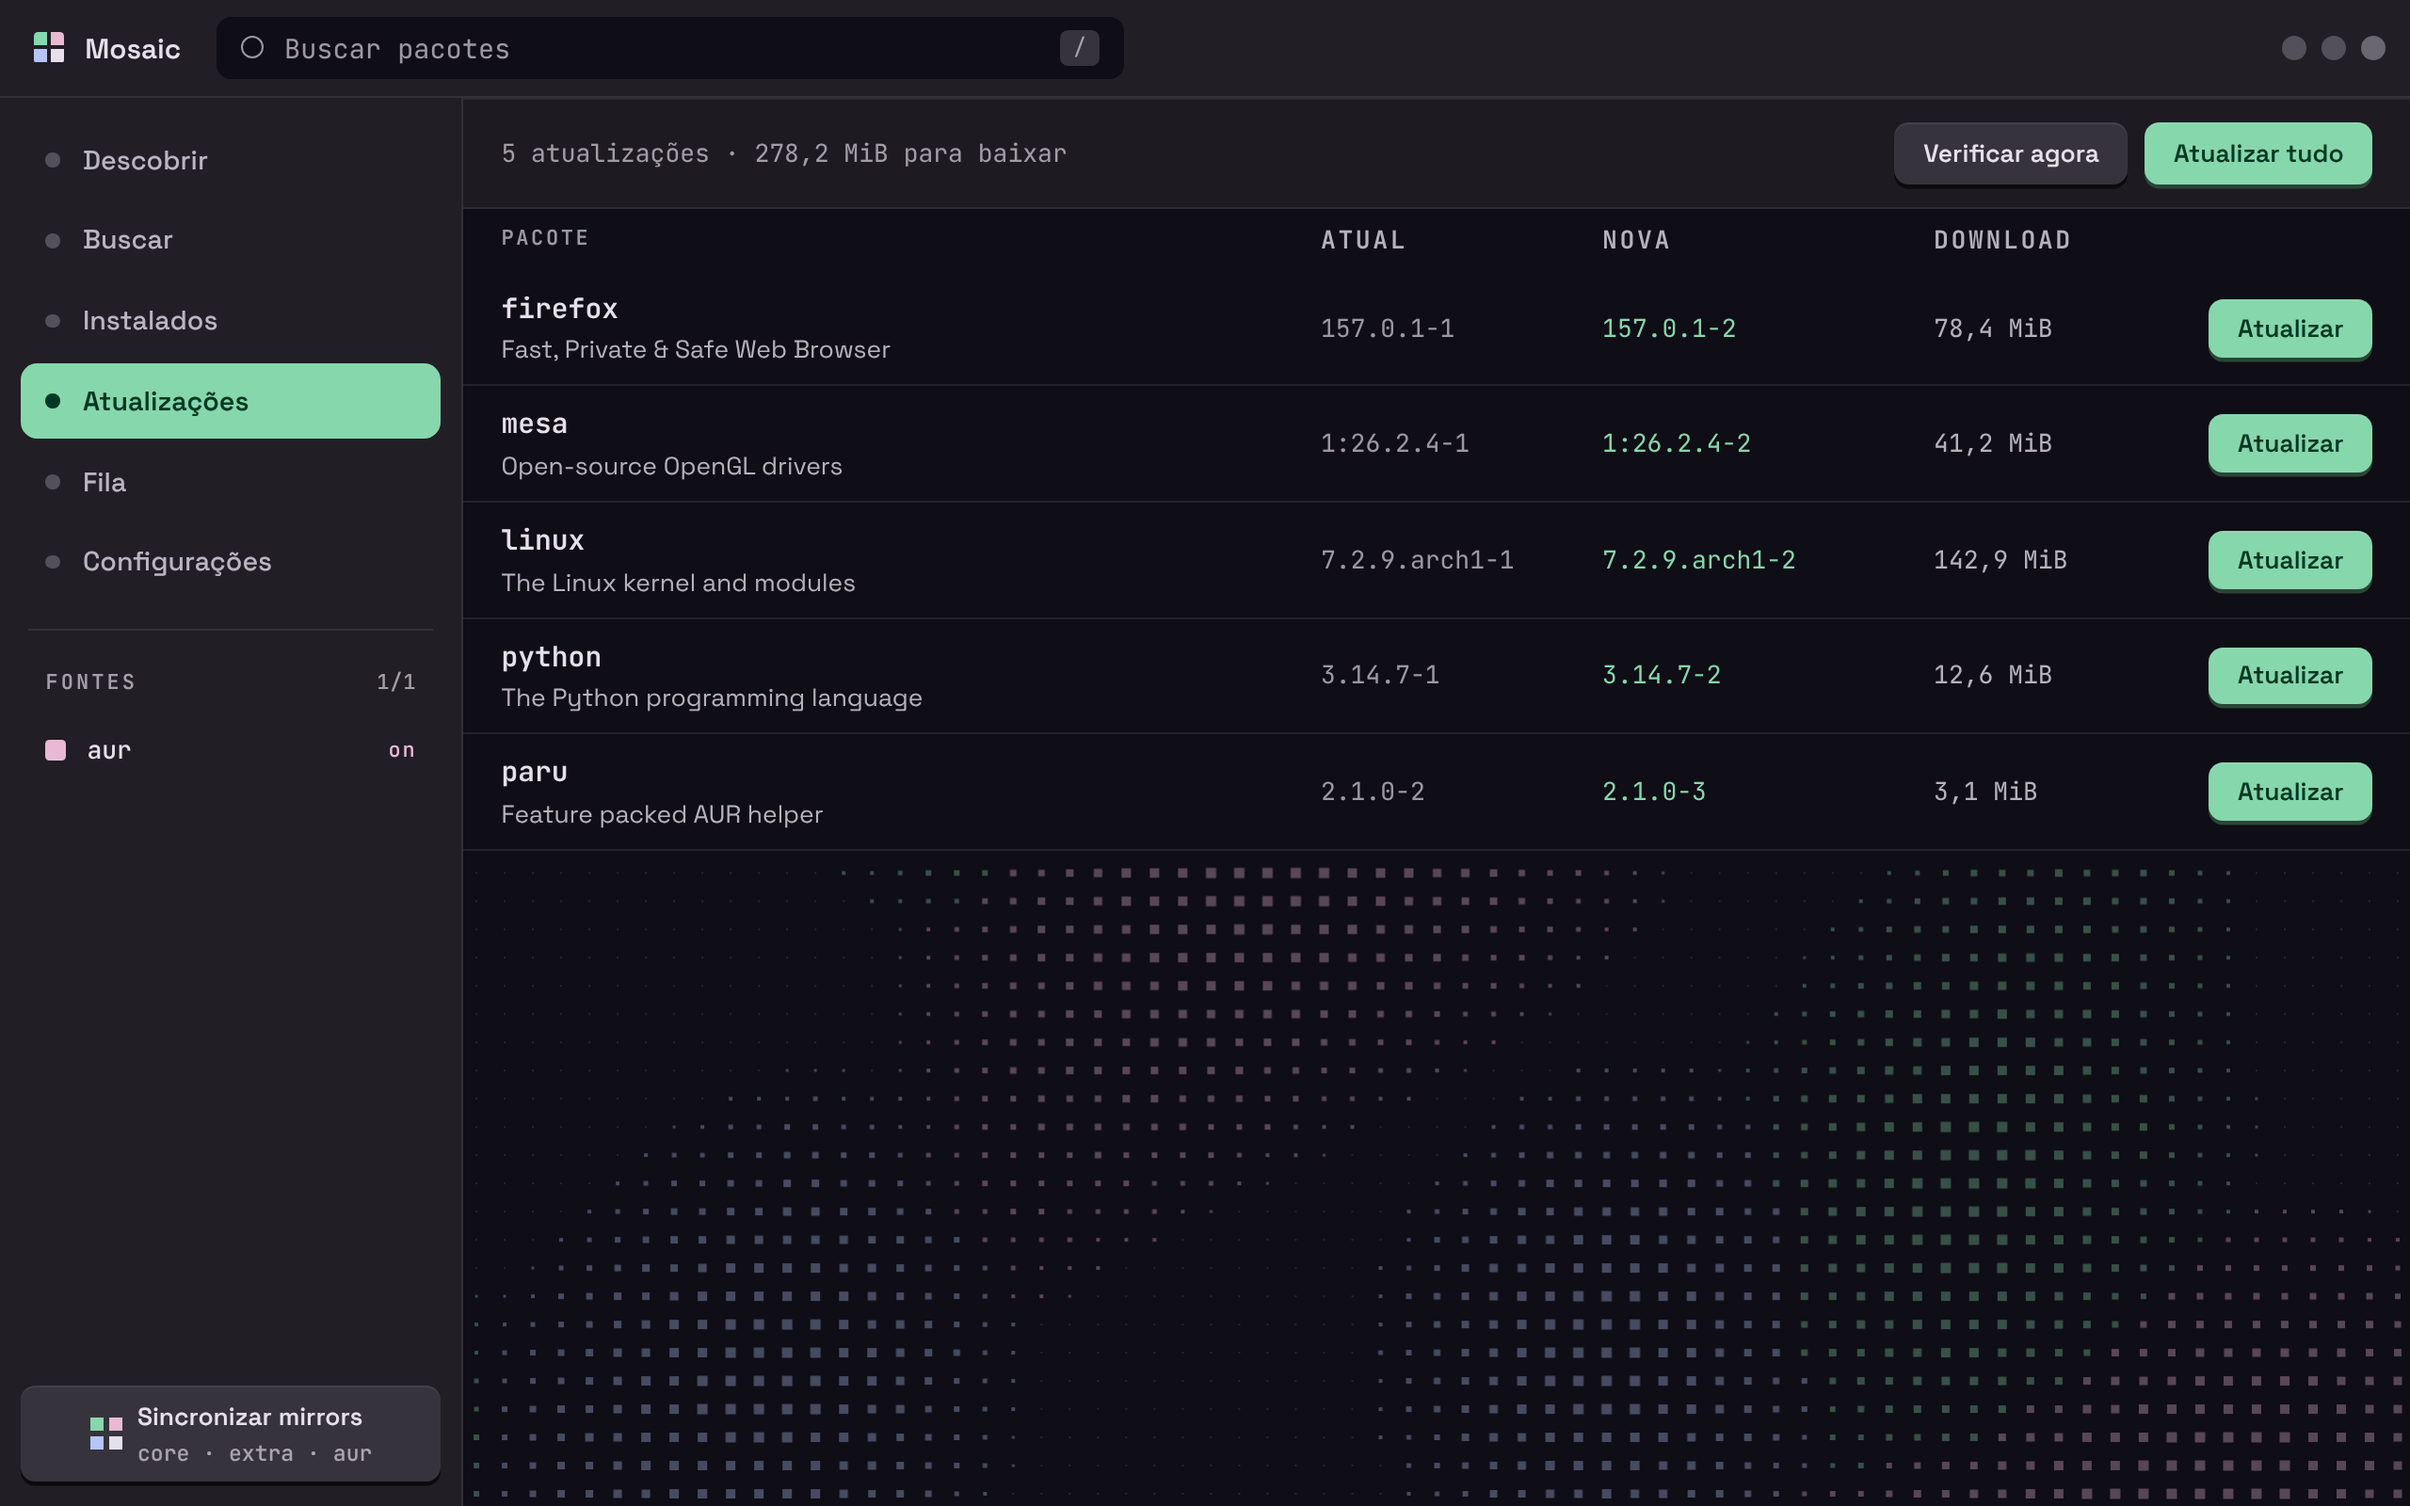
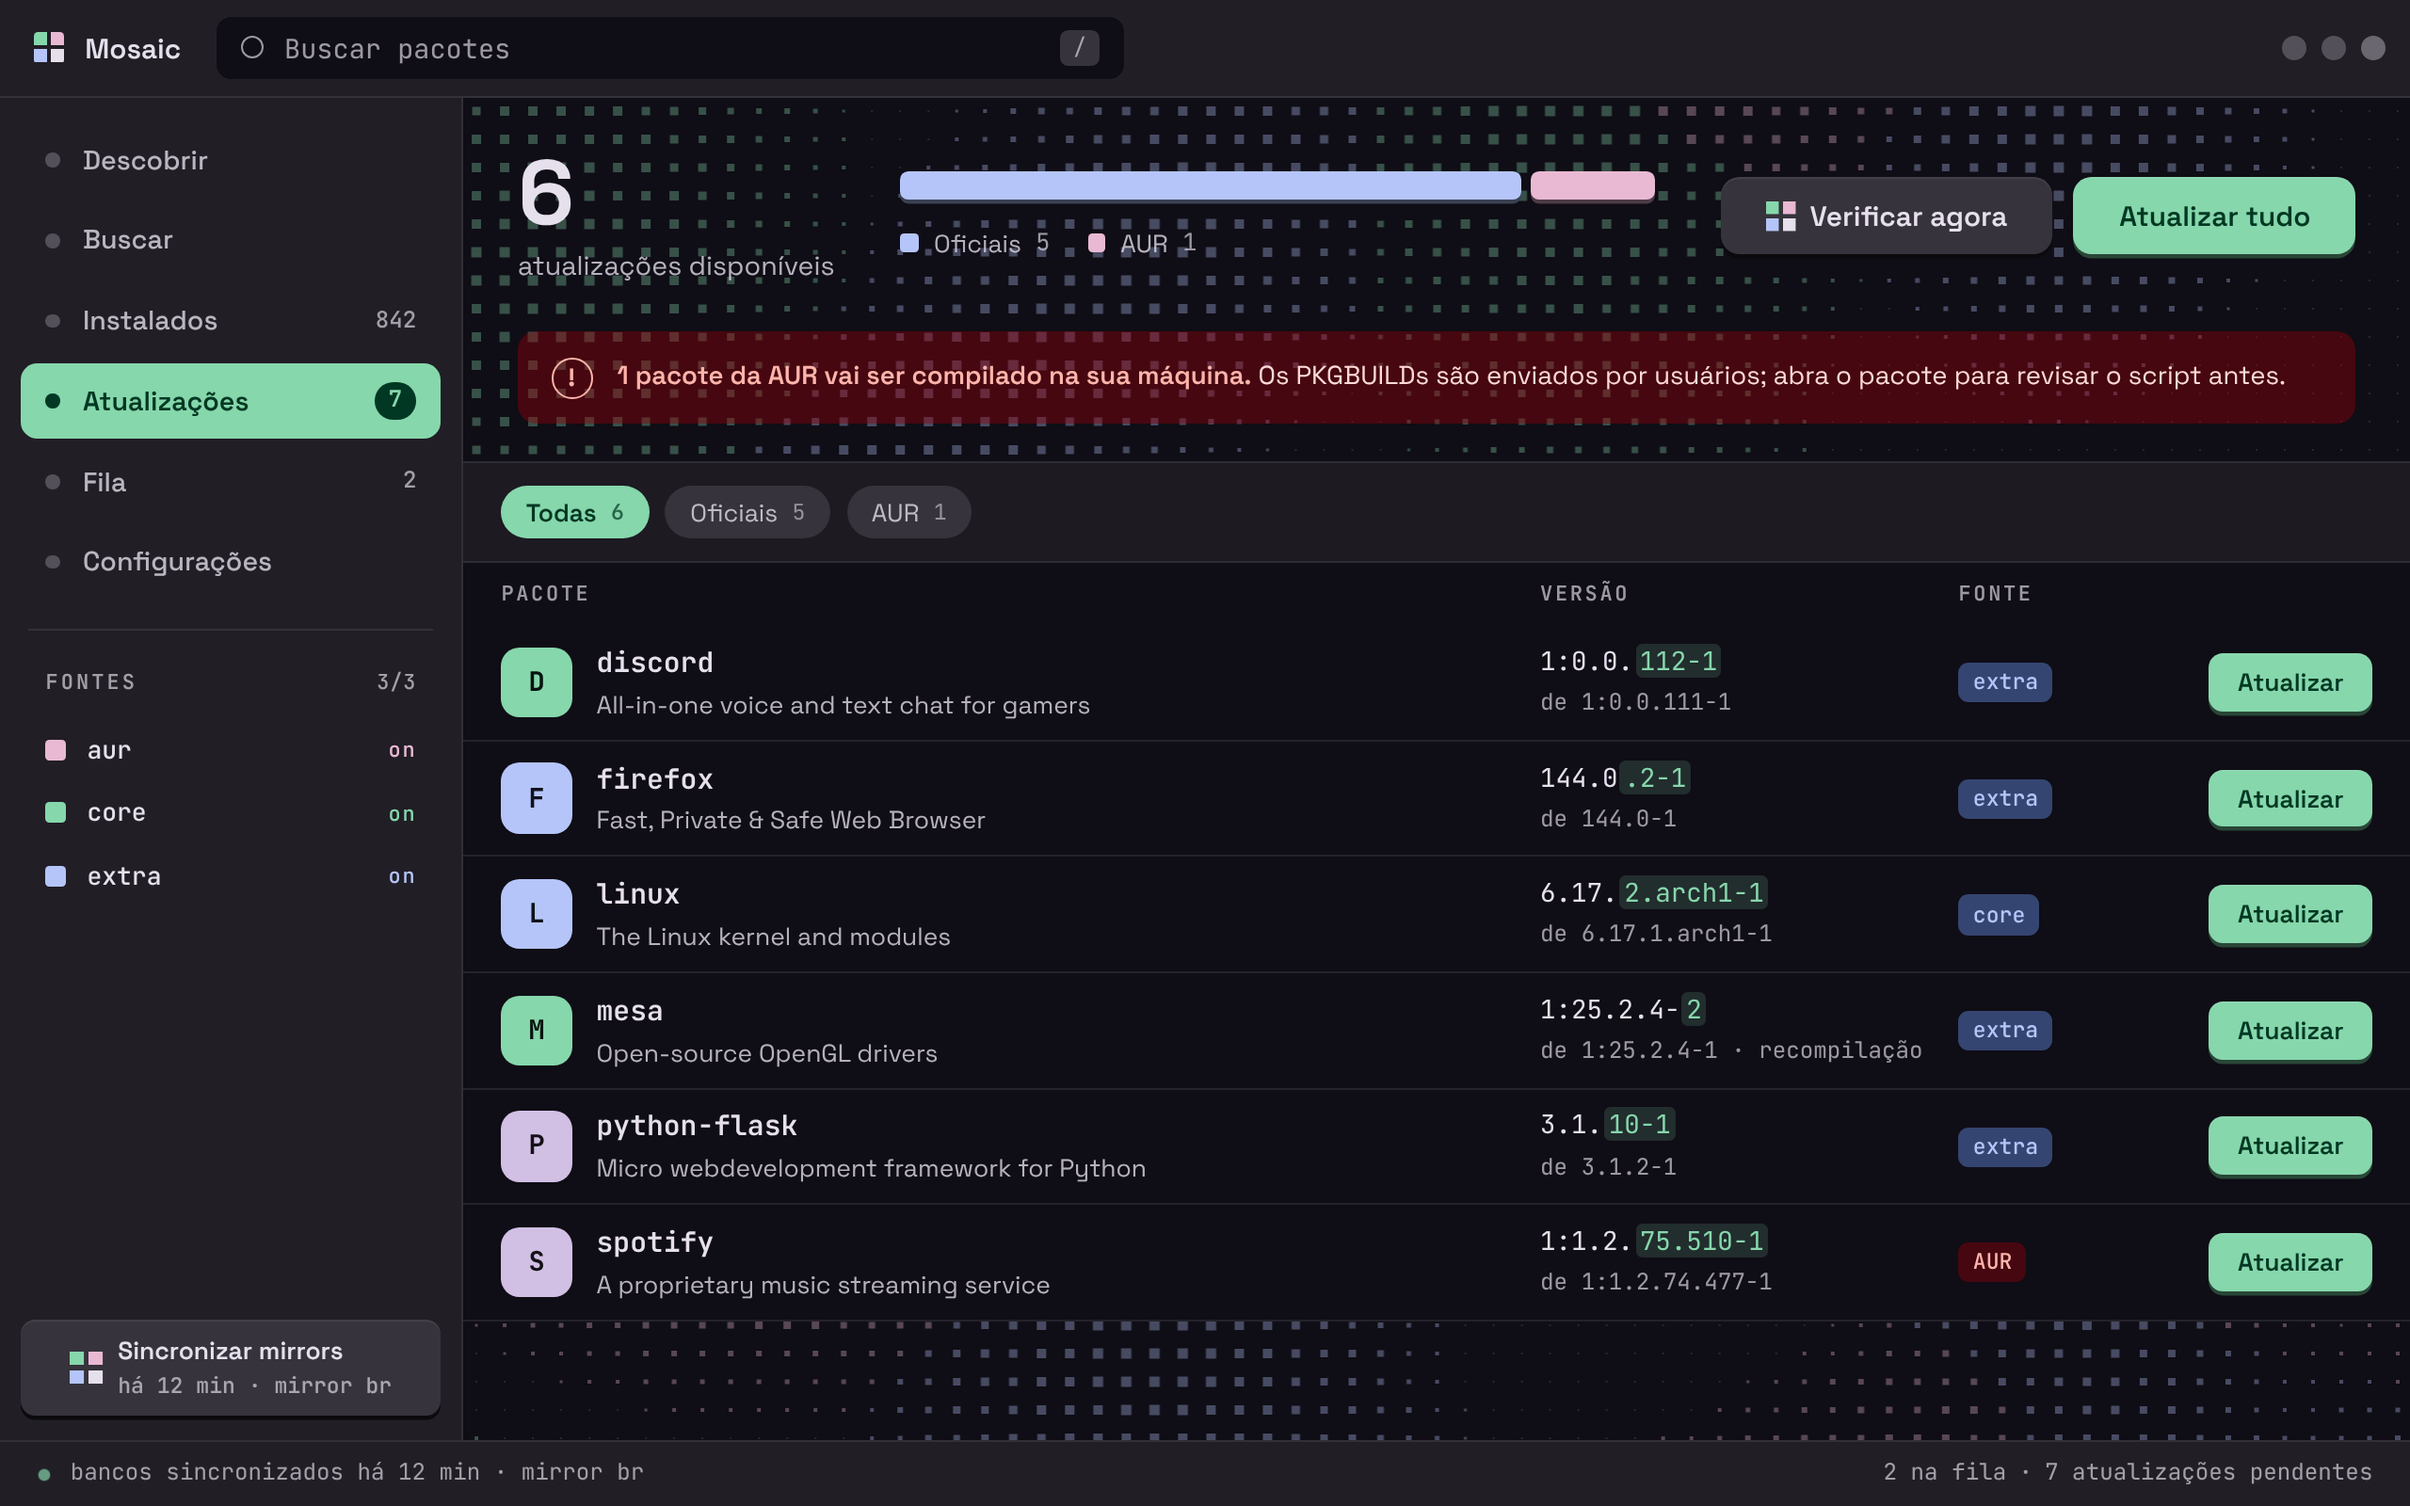
docs: README com as telas novas, as novidades e o que ainda falta

diff --git a/README.md b/README.md
@@ -13,6 +13,8 @@
 <p>
   <a href="#o-que-é">O que é</a> ·
   <a href="#telas">Telas</a> ·
+  <a href="#novidades">Novidades</a> ·
+  <a href="#o-que-ainda-falta">O que falta</a> ·
   <a href="#rodando-localmente">Rodando localmente</a> ·
   <a href="#tema-com-o-matugen">Tema</a>
 </p>
@@ -52,65 +54,114 @@ O Mosaic coloca o `paru` atrás de uma interface calma, rápida e legível. Busc
   <tr>
     <td width="50%">
       <strong>Descobrir</strong><br>
-      <sub>O ponto de entrada: destaque, populares e mais votados.</sub><br><br>
+      <sub>Destaque, populares e mais votados da AUR, e um aviso quando tem atualização.</sub><br><br>
       <img src="assetsReadme/mosaic-home.png" alt="Tela Descobrir do Mosaic" width="100%">
     </td>
     <td width="50%">
       <strong>Buscar</strong><br>
-      <sub>A tela vazia, com a marca, antes da primeira busca.</sub><br><br>
+      <sub>A tela vazia, antes da primeira busca. A tecla <kbd>/</kbd> traz para cá de qualquer lugar.</sub><br><br>
       <img src="assetsReadme/mosaic-busca-inicio.png" alt="Tela de busca do Mosaic antes de buscar" width="100%">
     </td>
   </tr>
   <tr>
     <td>
       <strong>Resultados</strong><br>
-      <sub>Versão, votos e fonte de cada pacote, com a AUR sinalizada.</sub><br><br>
-      <img src="assetsReadme/mosaic-busca.png" alt="Resultados de busca no Mosaic" width="100%">
+      <sub>Versão, votos e de onde vem cada pacote. O que é da AUR fica marcado.</sub><br><br>
+      <img src="assetsReadme/mosaic-busca.png" alt="Resultados da busca por fire no Mosaic" width="100%">
     </td>
     <td>
-      <strong>Detalhes do pacote</strong><br>
-      <sub>Aviso da AUR, dependências e o PKGBUILD à mão antes de instalar.</sub><br><br>
-      <img src="assetsReadme/mosaic-pacote.png" alt="Detalhes do pacote paru no Mosaic" width="100%">
+      <strong>Pacote</strong><br>
+      <sub>O aviso da AUR, as dependências e o PKGBUILD antes de instalar.</sub><br><br>
+      <img src="assetsReadme/mosaic-pacote.png" alt="Página do visual-studio-code-bin no Mosaic" width="100%">
     </td>
   </tr>
   <tr>
     <td>
-      <strong>Fila de instalação</strong><br>
-      <sub>Progresso de cada pacote e a saída do build em tempo real.</sub><br><br>
-      <img src="assetsReadme/mosaic-fila.png" alt="Fila de instalação do Mosaic" width="100%">
+      <strong>Instalados</strong><br>
+      <sub>Tudo que o pacman tem instalado, com versão e tamanho. Dá para filtrar por fonte ou por nome.</sub><br><br>
+      <img src="assetsReadme/mosaic-instalados.png" alt="Tela de pacotes instalados do Mosaic" width="100%">
     </td>
     <td>
       <strong>Atualizações</strong><br>
-      <sub>Versão atual, a nova e o tamanho do download.</sub><br><br>
+      <sub>O que o <code>checkupdates</code> e o <code>paru -Qua</code> acharam, separado entre oficiais e AUR.</sub><br><br>
       <img src="assetsReadme/mosaic-atualizacoes.png" alt="Tela de atualizações do Mosaic" width="100%">
+    </td>
+  </tr>
+  <tr>
+    <td>
+      <strong>Atualizando o sistema</strong><br>
+      <sub>O <code>pacman -Syu</code> rodando, com as etapas e a saída ao vivo. Dá para sair da tela e voltar depois.</sub><br><br>
+      <img src="assetsReadme/mosaic-sistema.png" alt="Tela de atualização do sistema rodando o pacman -Syu" width="100%">
+    </td>
+    <td>
+      <strong>Fila</strong><br>
+      <sub>Um pacote por vez, com a saída do build ao lado.</sub><br><br>
+      <img src="assetsReadme/mosaic-fila.png" alt="Fila de instalação do Mosaic" width="100%">
+    </td>
+  </tr>
+  <tr>
+    <td>
+      <strong>Configurações</strong><br>
+      <sub>As cores que vieram do Matugen e as opções da loja.</sub><br><br>
+      <img src="assetsReadme/mosaic-configuracoes.png" alt="Tela de configurações do Mosaic" width="100%">
+    </td>
+    <td>
+      <strong>Esperando uma tela</strong><br>
+      <sub>Quando a próxima tela demora, o conteúdo é coberto e mostra o que está carregando.</sub><br><br>
+      <img src="assetsReadme/mosaic-espera.png" alt="Tela de espera do Mosaic abrindo o firefox" width="100%">
     </td>
   </tr>
 </table>
 
-<sub>As telas da fila, das atualizações e do PKGBUILD foram capturadas com dados de exemplo.</sub>
-
+<sub>As capturas usam dados de exemplo. Os números da barra lateral (instalados, atualizações, fila) ainda não vêm do sistema, veja <a href="#o-que-ainda-falta">o que ainda falta</a>.</sub>
 
 ### Leve de propósito
 
 O fundo e a transição são desenhados num Web Worker com `OffscreenCanvas`, fora da thread que carrega as páginas e responde aos cliques. A animação não disputa tempo com a interface, só redesenha os pixels que mudaram e para por completo quando a janela perde o foco. As fontes são servidas pelo próprio app, e listas longas só montam o que está na tela.
 
+## Novidades
+
+As últimas versões mexeram mais no app em volta da loja do que na loja em si:
+
+- **Instalados e Atualizações funcionam de verdade.** A lista vem do pacman, e as atualizações do `checkupdates` e do `paru -Qua`. "Atualizar tudo" roda o `pacman -Syu` numa tela própria, e "Sincronizar mirrors" também.
+- **Tela de espera.** Antes, clicar numa tela lenta (Instalados lendo o pacman, por exemplo) deixava a janela parada. Agora o conteúdo é coberto na hora e diz o que está vindo. <kbd>Esc</kbd> desiste.
+- **Abertura.** A janela já abre na cor do tema, com a marca girando, em vez de um retângulo branco até a loja carregar.
+- **Mosaic UI.** O visual saiu da loja e virou uma biblioteca em [`mosaic-ui/`](mosaic-ui/), para servir a outros apps.
+- **Pacote para o Arch.** Tem PKGBUILD em `pkg/`, comando `mosaic-store`, ícone e atalho no menu.
+- **Versões.** O app agora tem número de versão, CHANGELOG e um script para lançar versão nova.
+
+A lista completa está no [CHANGELOG.md](CHANGELOG.md).
+
 ## Funcionalidades
 
 - Busca local em SQLite com full-text na AUR, core e extra, ordenada por correspondência e popularidade.
 - Página do pacote com dependências, votos, mantenedor, link do projeto e PKGBUILD da AUR.
-- Instalação em fila com o `paru`, um pacote por vez, e a saída do build ao vivo.
+- Instalação em fila com o `paru`, um pacote por vez, e a saída do build ao vivo, sem recarregar a página.
+- Lista de instalados com versão e tamanho.
+- Atualizações dos repositórios oficiais e da AUR, e atualização completa do sistema com o `pacman -Syu`.
+- Sincronização dos bancos do pacman.
 - Tema gerado a partir do wallpaper pelo Matugen.
 - Atalho <kbd>/</kbd> para ir direto à busca.
 - Movimento reduzido respeitado: as animações viram fades curtos e o fundo fica parado.
 
-### Em desenvolvimento
+## O que ainda falta
 
-- Cancelar uma instalação em andamento.
-- Telas de Instalados e Configurações (salvar preferências).
-- Atualizações e contagens lidas do sistema.
-- Ligar e desligar fontes de pacote pela barra lateral.
-- Rota de sincronização dos bancos (`/syncDb`) ligada à tecla "Sincronizar mirrors".
+Os botões abaixo já estão na tela, mas ainda não fazem nada:
+
+- Remover um pacote, na tela de Instalados.
+- Atualizar um pacote só. Por enquanto, só o "Atualizar tudo" funciona.
+- Cancelar um pacote da fila, ou a fila inteira.
+- Salvar as Configurações.
+- Ligar e desligar as fontes (aur, core, extra) pela barra lateral.
+
+E o que ainda não existe:
+
+- Contagens reais na barra lateral e no rodapé.
+- Categorias no Descobrir. A tela já tem o espaço, falta de onde tirar os dados.
+- Um destaque que mude. Hoje é sempre o mesmo pacote.
+- O repositório multilib no banco local.
 - Builds com limite de CPU e memória, para um build pesado não travar a máquina.
+- Publicar na AUR. O cadastro de contas está fechado no momento, então por enquanto a instalação é pelo PKGBUILD daqui.
 
 ## Stack
 
@@ -118,10 +169,11 @@ O fundo e a transição são desenhados num Web Worker com `OffscreenCanvas`, fo
 | --- | --- |
 | Backend | Python + Flask |
 | Interface desktop | pywebview (Qt WebEngine) |
-| Pacotes | paru, AUR e repositórios oficiais |
+| Pacotes | paru, pacman, AUR e repositórios oficiais |
 | Dados | SQLite + busca full-text (FTS5) |
-| Interface | HTML, CSS e JavaScript, sem framework; canvas num Web Worker |
+| Interface | HTML, CSS e JavaScript, sem framework, com a [Mosaic UI](mosaic-ui/); canvas num Web Worker |
 | Fontes | Space Grotesk e JetBrains Mono, servidas localmente |
+| Empacotamento | PKGBUILD (`pkg/`) |
 
 ## Rodando localmente
 
@@ -159,6 +211,8 @@ Com o PKGBUILD da pasta `pkg/`, o Mosaic vira um pacote do sistema, com o comand
 cd pkg
 makepkg -si
 ```
+
+O banco de pacotes e os downloads ficam em `~/.cache/mosaic-store`. Na primeira vez que abre, o app baixa a lista da AUR e dos repositórios, e o Descobrir fica vazio até terminar.
 
 ## Tema com o Matugen
 
